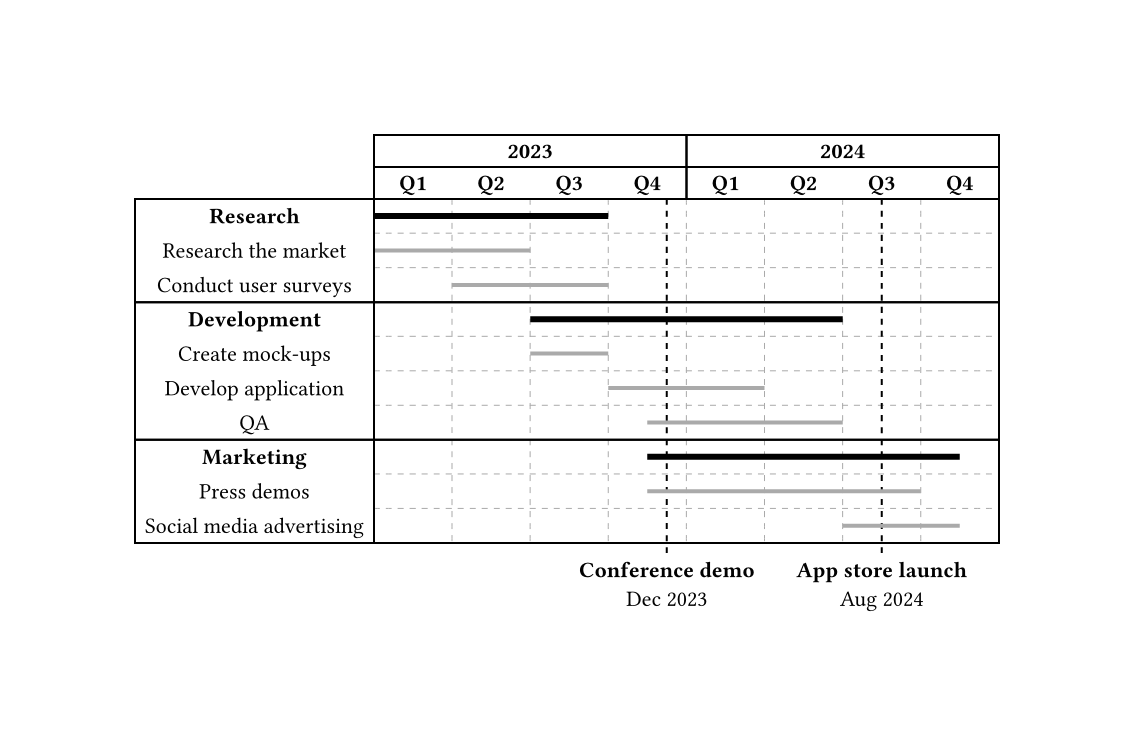
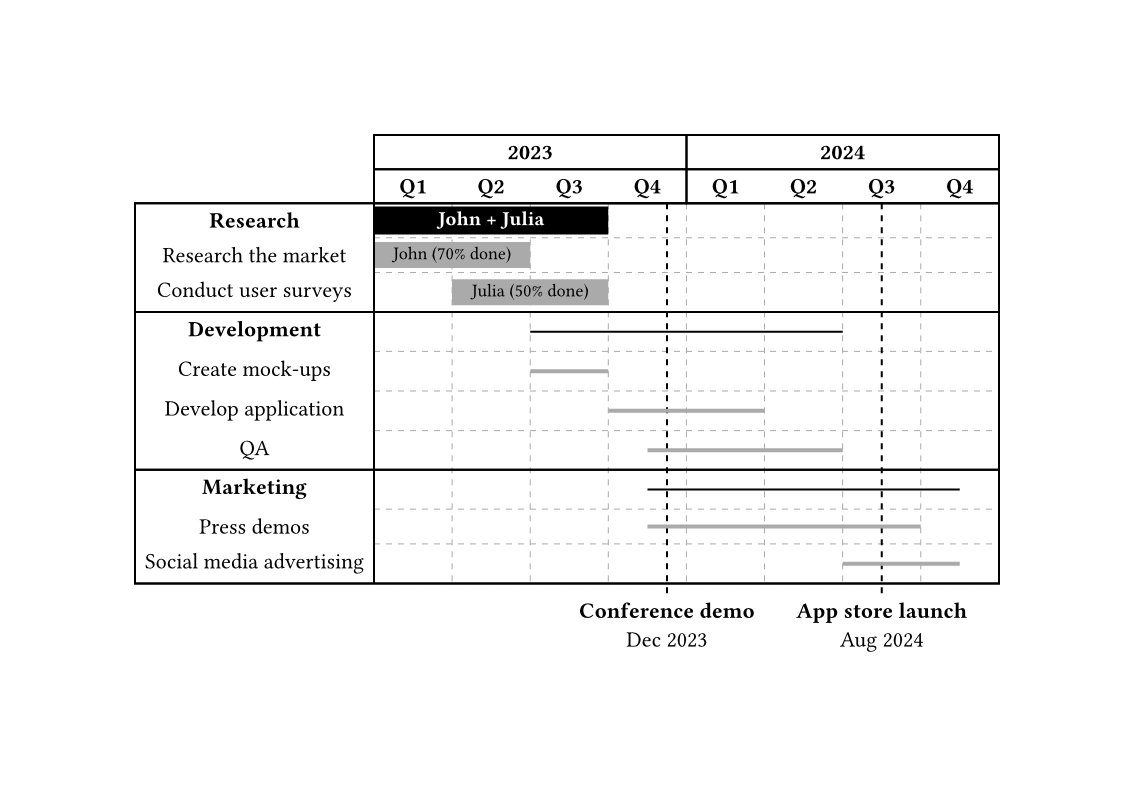
Allow content on top of a task (#22)
* Allow content on top of a task or task group

* Update sample

Closes #13

Changed region(s): [[0.1235, 0.1552, 0.8951, 0.8381], [0.463, 0.5897, 0.4938, 0.6208], [0.3704, 0.5897, 0.4012, 0.6208]]

diff --git a/README.md b/README.md
@@ -18,10 +18,23 @@ Here's a fully-featured example:
       group(..range(4).map(n => strong("Q" + str(n + 1)))),
     )
   
-    taskgroup(title: [*Research*], {
-      task("Research the market", (0, 2), style: (stroke: 2pt + gray))
-      task("Conduct user surveys", (1, 3), style: (stroke: 2pt + gray))
-    })
+    taskgroup(
+      title: [*Research*],
+      content: text(10pt, white)[*John + Julia*],
+      style: (stroke: 14pt + black),
+      {
+        task(
+          "Research the market",
+          (from: 0, to: 2, content: text(9pt)[John (70% done)]),
+          style: (stroke: 13pt + gray),
+        )
+        task(
+          "Conduct user surveys",
+          (from: 1, to: 3, content: text(9pt)[Julia (50% done)]),
+          style: (stroke: 13pt + gray),
+        )
+      },
+    )
 
     taskgroup(title: [*Development*], {
       task("Create mock-ups", (2, 3), style: (stroke: 2pt + gray))
